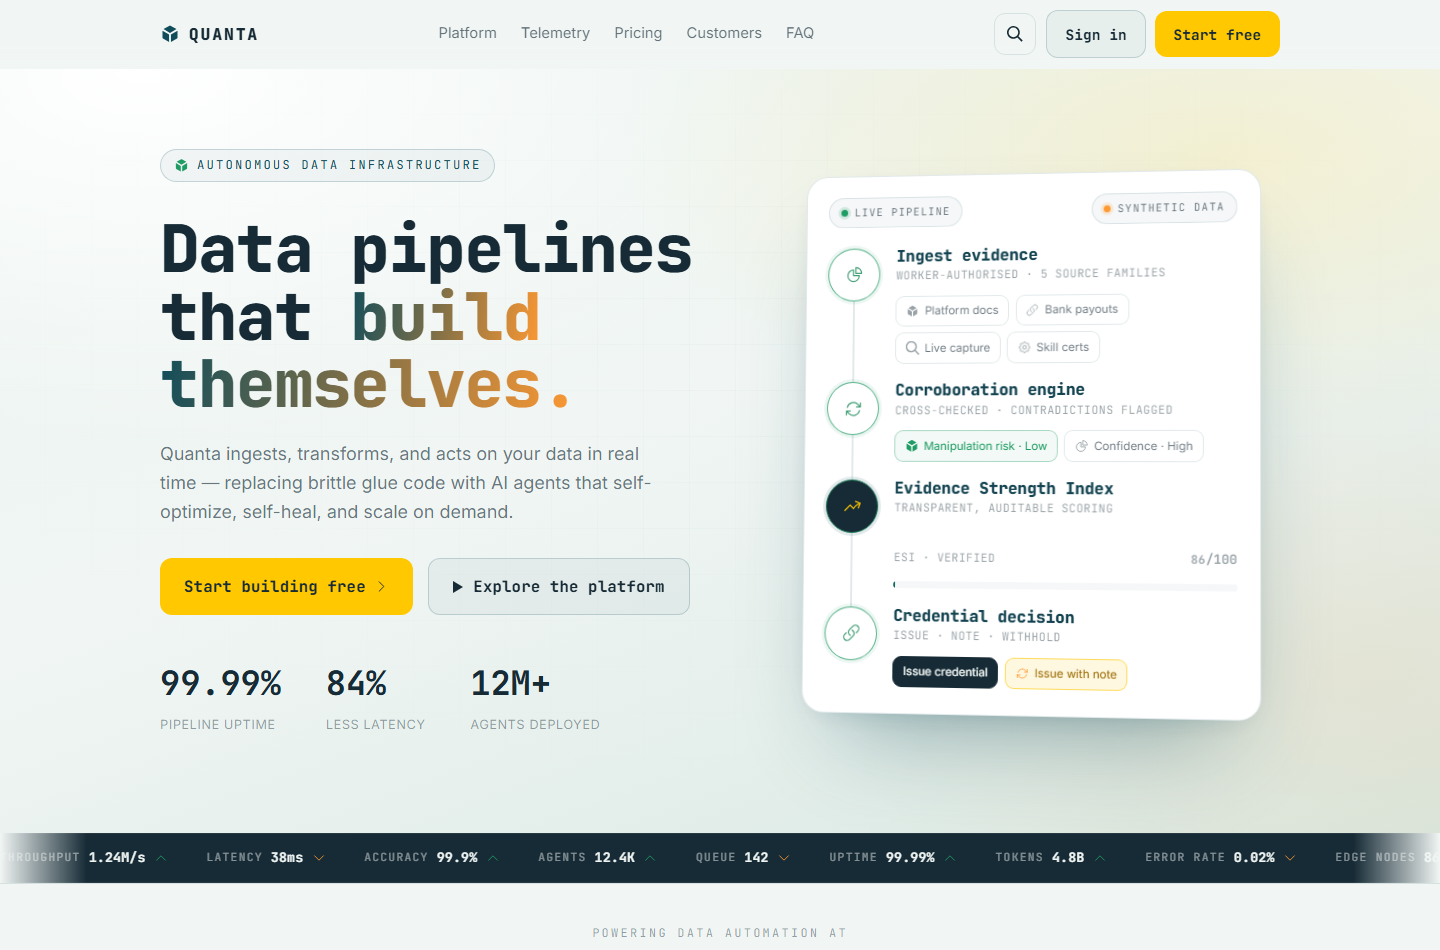
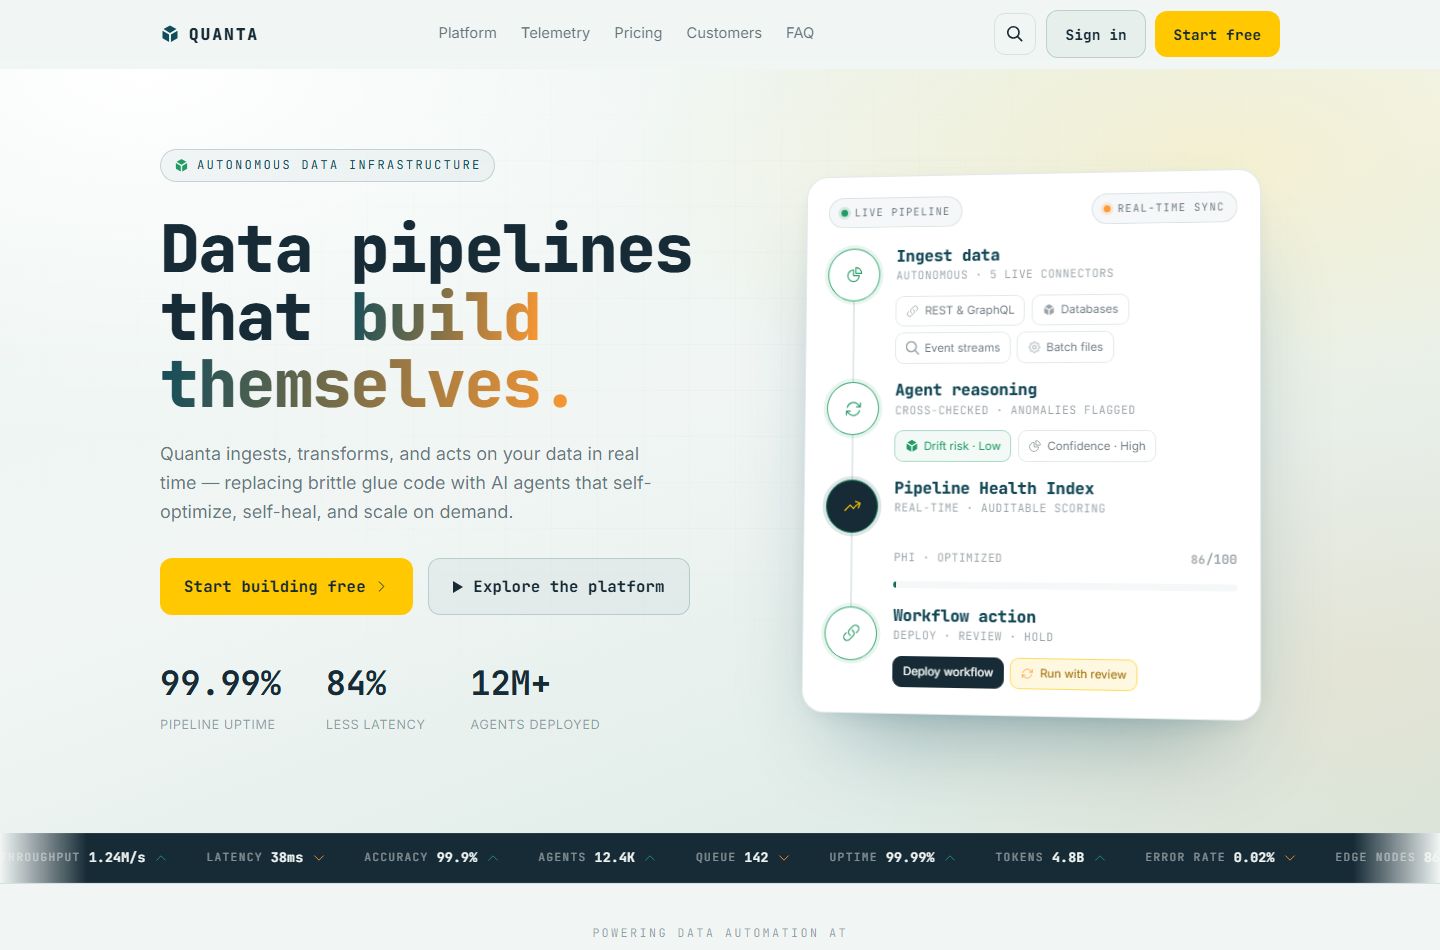
Fix billing toggle alignment; refresh README previews

diff --git a/assets/css/styles.css b/assets/css/styles.css
@@ -408,8 +408,9 @@ section { padding-block: clamp(3.5rem, 8vw, 7rem); position: relative; }
 /* ---------- Feature 1: Pricing ---------- */
 .pricing__controls { display: flex; flex-wrap: wrap; align-items: center; justify-content: center; gap: 1rem; margin-bottom: 2.5rem; }
 .billing-toggle { position: relative; display: inline-flex; padding: 5px; border: 1px solid var(--border); border-radius: 999px; background: var(--surface-2); }
-.billing-toggle__opt { position: relative; z-index: 1; display: inline-flex; align-items: center; gap: .45rem; padding: .5rem 1.1rem;
-  font-family: var(--font-mono); font-size: .85rem; color: var(--text-muted); border-radius: 999px; transition: color var(--t-micro) var(--ease-out); }
+.billing-toggle__opt { position: relative; z-index: 1; flex: 1 1 0; display: inline-flex; align-items: center; justify-content: center; gap: .45rem;
+  padding: .5rem 1.1rem; white-space: nowrap; font-family: var(--font-mono); font-size: .85rem; color: var(--text-muted); border-radius: 999px;
+  transition: color var(--t-micro) var(--ease-out); }
 .billing-toggle__opt.is-active { color: var(--noir); }
 .billing-toggle__knob { position: absolute; z-index: 0; top: 5px; bottom: 5px; left: 5px; width: calc(50% - 5px);
   background: var(--forsythia); border-radius: 999px; transition: transform var(--t-micro) var(--ease-out); }